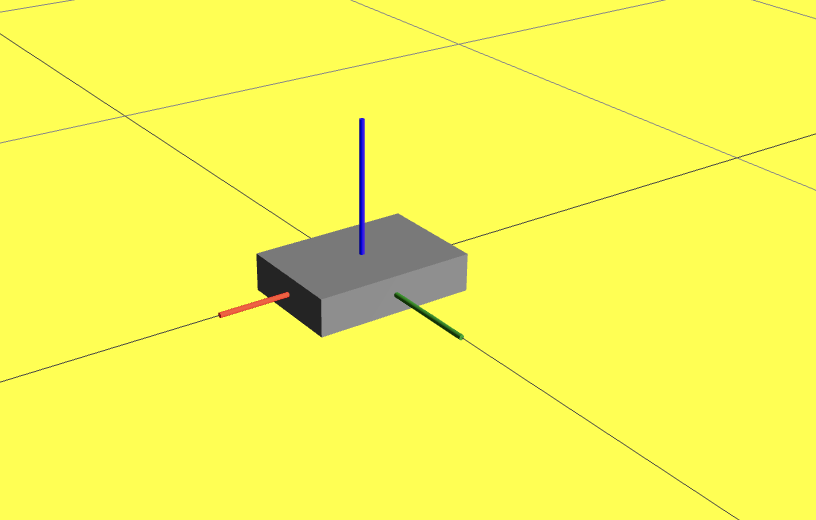
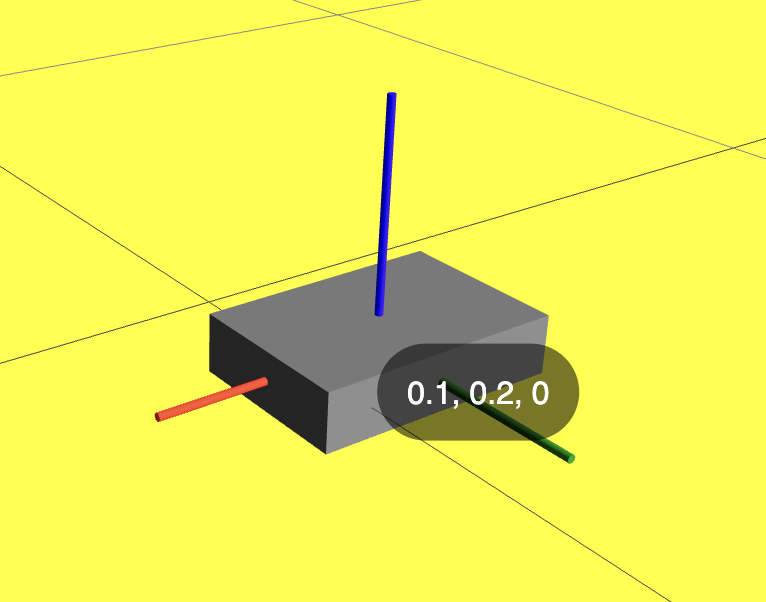
feature: add label to Transform feature: add position argument to Robot

diff --git a/web/src/components/Transform/Transform.tsx b/web/src/components/Transform/Transform.tsx
@@ -1,4 +1,7 @@
-import { Cylinder } from '@react-three/drei'
+import { useEffect, useRef, useState } from 'react'
+
+import { Cylinder, Html } from '@react-three/drei'
+import * as THREE from 'three'
 
 /* Viam considers +X to be to the right, +Y to be forwards, and +Z to be up.
  * See https://docs.viam.com/services/frame-system/
@@ -11,8 +14,24 @@ function Transform() {
   const radius = 0.005
   const height = 0.3
   const radialSegments = 32
+
+  const groupRef = useRef()
+
+  const [x, setX] = useState()
+  const [y, setY] = useState()
+  const [z, setZ] = useState()
+
+  useEffect(() => {
+    if (groupRef.current) {
+      console.log(groupRef.current.getWorldPosition(new THREE.Vector3()))
+      const position = groupRef.current.getWorldPosition(new THREE.Vector3())
+      setX(position.x)
+      setY(position.y)
+      setZ(position.z)
+    }
+  }, [groupRef.current])
   return (
-    <group>
+    <group ref={groupRef} position={[0, 0, 0]}>
       {/* X axis */}
       <Cylinder
         args={[radius, radius, height, radialSegments]}
@@ -36,6 +55,12 @@ function Transform() {
       >
         <meshStandardMaterial color="blue" depthTest={true} />
       </Cylinder>
+
+      <Html position={[0, 0, 0]} wrapperClass="transform-label">
+        {x},&nbsp;
+        {y},&nbsp;
+        {z}
+      </Html>
     </group>
   )
 }

diff --git a/web/src/components/Robot/Robot.tsx b/web/src/components/Robot/Robot.tsx
@@ -1,9 +1,19 @@
-const Robot = () => {
+import * as THREE from 'three'
+
+import Transform from '../Transform/Transform'
+
+function Robot({ position }) {
+  console.log(position)
   return (
     // Dimensions: L 32 cm x W 22 cm x H 7.5 cm
-    <mesh>
+    <mesh
+      position-x={position.x}
+      position-y={position.z}
+      position-z={position.y}
+    >
       <boxGeometry args={[0.32, 0.075, 0.22]} />
       <meshStandardMaterial color="dimgray" wireframe={false} />
+      <Transform />
     </mesh>
   )
 }

diff --git a/web/src/components/World/World.tsx b/web/src/components/World/World.tsx
@@ -1,4 +1,5 @@
 import { OrbitControls } from '@react-three/drei'
+import * as THREE from 'three'
 
 import Map from '../Map/Map'
 import Robot from '../Robot/Robot'
@@ -10,9 +11,8 @@ const World = () => {
       <OrbitControls enableDamping={true} makeDefault />
       <directionalLight position={[1, 2, 3]} intensity={1.5} />
       <ambientLight intensity={0.25} />
-      <Robot />
+      <Robot position={new THREE.Vector3(0.1, 0.2, 0)} />
       <Map />
-      <Transform />
     </>
   )
 }

diff --git a/web/src/index.css b/web/src/index.css
@@ -9,3 +9,16 @@ body,
     overflow: hidden;
     background-color: yellow;
 }
+
+.transform-label > div
+{
+    font-family: Helvetica, Arial;
+    position: absolute;
+    background: #00000088;
+    color: white;
+    padding: 15px;
+    white-space: nowrap;
+    overflow: hidden;
+    border-radius: 30px;
+    user-select: none;
+}
